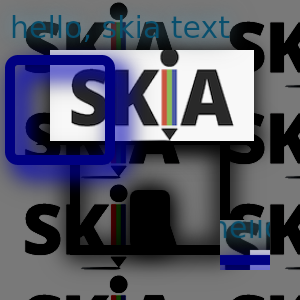
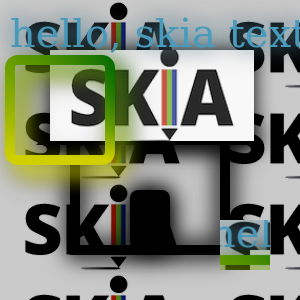
cleanup

diff --git a/test.ts b/test.ts
@@ -3,7 +3,7 @@ import { createCanvas, Image, Path2D } from "./mod.ts";
 const canvas = createCanvas(300, 300);
 const ctx = canvas.getContext("2d");
 
-ctx.filter = "brightness(50%) contrast(200%)";
+ctx.filter = "brightness(70%) contrast(160%)";
 
 const img = new Image("./testdata/skia_logo.png");
 const pattern = ctx.createPattern(img, "repeat");
@@ -13,13 +13,13 @@ const pattern = ctx.createPattern(img, "repeat");
 ctx.shadowBlur = 20;
 ctx.shadowColor = "black";
 
-// const gradient = ctx.createConicGradient(0, 150, 150);
+const gradient = ctx.createConicGradient(0, 150, 150);
 
-// gradient.addColorStop(0, "red");
-// gradient.addColorStop(0.25, "orange");
-// gradient.addColorStop(0.5, "yellow");
-// gradient.addColorStop(0.75, "green");
-// gradient.addColorStop(1, "blue");
+gradient.addColorStop(0, "red");
+gradient.addColorStop(0.25, "orange");
+gradient.addColorStop(0.5, "yellow");
+gradient.addColorStop(0.75, "green");
+gradient.addColorStop(1, "blue");
 
 // ctx.fillStyle = gradient;
 
@@ -61,13 +61,13 @@ ctx.drawImage(
 );
 
 ctx.fillStyle = "skyblue";
-ctx.font = "30px DejaVu Sans";
+ctx.font = "40px sans-serif";
 ctx.fillText("hello, skia text", 10, 10);
 
 const path = new Path2D(
   "M8 50H92C96.4183 50 100 53.5817 100 58V142C100 146.418 96.4183 150 92 150H8C3.58172 150 0 146.418 0 142V58C0 53.5817 3.58172 50 8 50Z",
 );
-ctx.strokeStyle = "blue";
+ctx.strokeStyle = gradient;
 ctx.save();
 ctx.translate(10, 10);
 ctx.stroke(path);

diff --git a/native/src/context2d.cpp b/native/src/context2d.cpp
@@ -33,7 +33,7 @@ sk_context_state* create_default_state() {
   state->direction = kLTR;
   state->font = new Font();
   state->font->size = 10;
-  state->font->family = strdup("DejaVu Sans");
+  state->font->family = strdup("sans-serif");
   state->font->weight = 400;
   state->font->style = FontStyle::kNormalStyle;
   state->font->variant = FontVariant::kNormalVariant;
